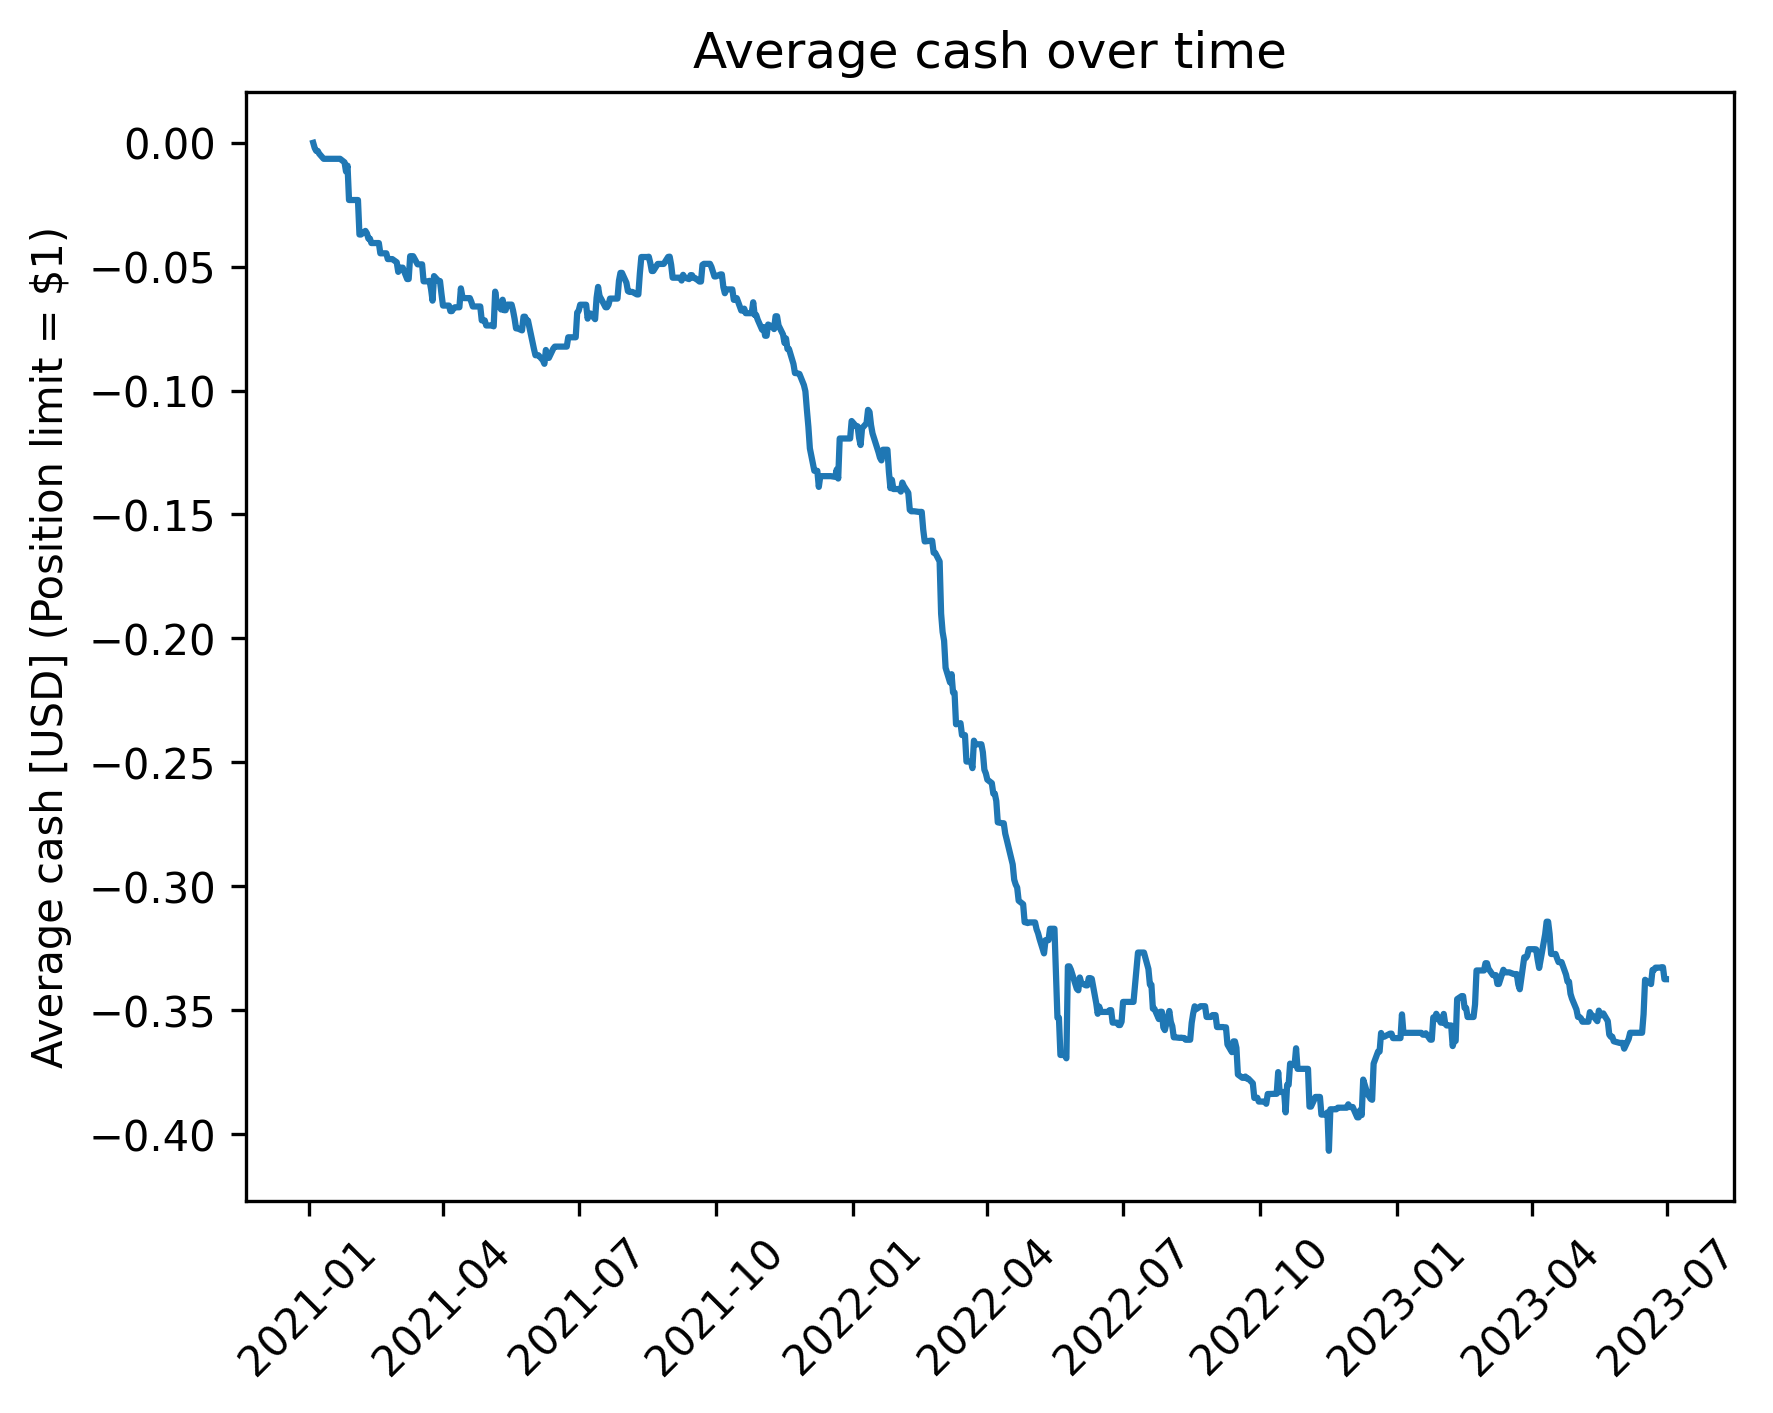
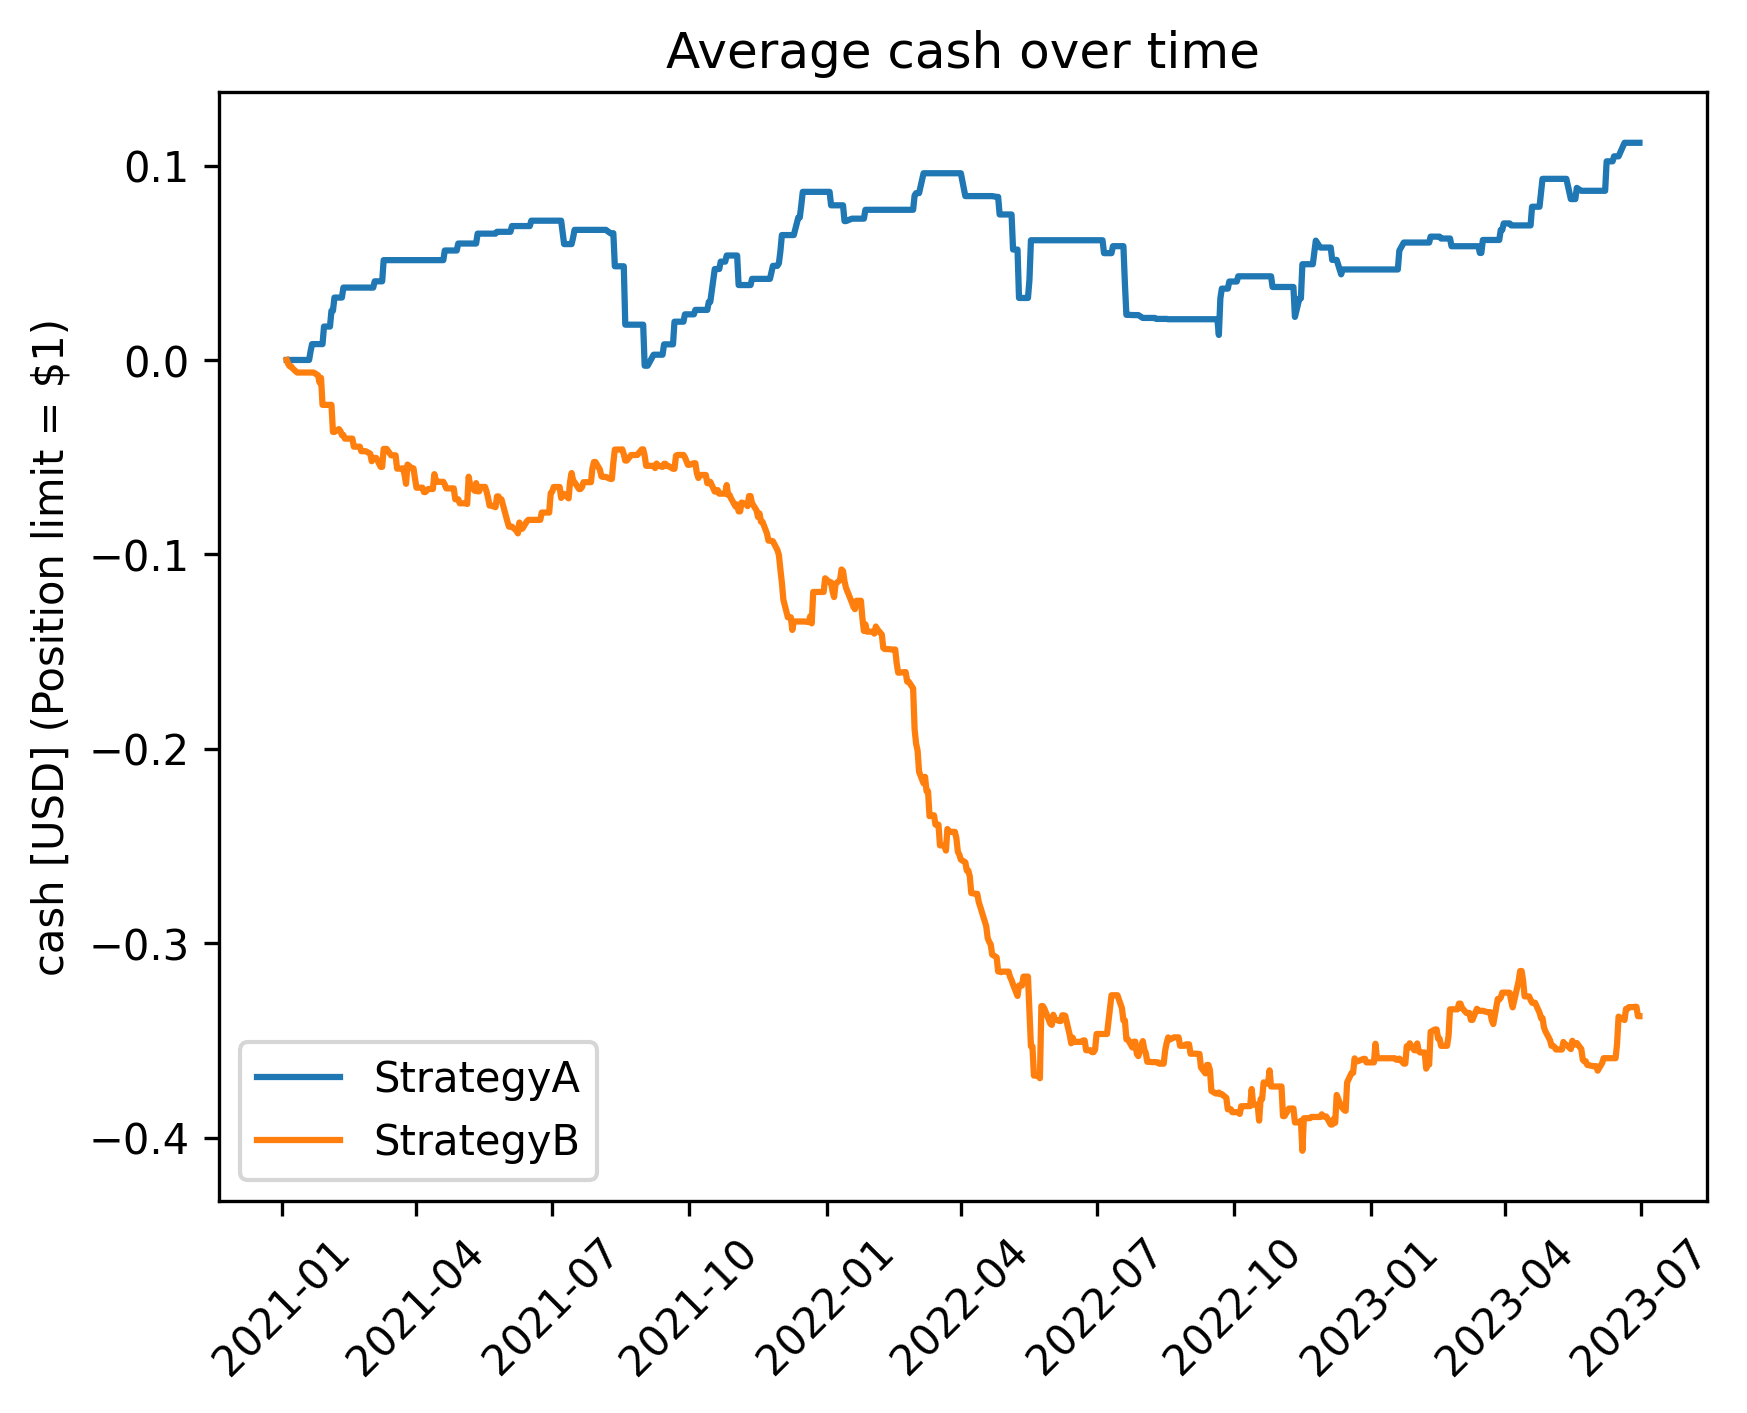
Added strategy comparison plotting tools

diff --git a/pairs_trading_oaf/plotting.py b/pairs_trading_oaf/plotting.py
@@ -5,77 +5,59 @@ Functions to plot trading data.
 import os
 import matplotlib.pyplot as plt
 
-def plot_portfolio_value_over_time(master_portfolio,
-                                   plot_cash=True):
+def plot_average_values_over_time(master_portfolio):
     """
-    Plots the profit and loss of the portfolio over time for each pair
+    Plots the average value of the portfolio over time for each pair
     in the master portfolio over the entire trading period.
     """
     current_dir = os.path.dirname(__file__)
     plots_dir = os.path.join(current_dir, '..', 'plots')
     os.makedirs(plots_dir, exist_ok=True)
-
-    for pair_portfolio in master_portfolio.pair_portfolios:
-
+    master_portfolio.calc_strategy_strings()
+    master_portfolio.calc_average_values_over_time_by_strategy()
+    for value_string in master_portfolio.average_values_over_time.keys():
         fig, ax = plt.subplots()
-        fig_size = fig.get_size_inches()
-        fig.set_size_inches(fig_size[0], fig_size[1])
-
-        # Extract stock label text bettwen : and )
-        stock_a_label = pair_portfolio.stock_pair_labels[0]
-        stock_a_label = stock_a_label[stock_a_label.find(':')+1:stock_a_label.find(')')]
-        stock_b_label = pair_portfolio.stock_pair_labels[1]
-        stock_b_label = stock_b_label[stock_b_label.find(':')+1:stock_b_label.find(')')]
-
-        ax.plot(pair_portfolio.dates_over_time, pair_portfolio.portfolio_value_over_time)
-        ax.set_ylabel('Portfolio value [USD] (Position limit = $' +
-                      f'{int(pair_portfolio.position_limit):d})')
+        for strategy_string in master_portfolio.average_values_over_time[value_string].keys():
+            ax.plot(master_portfolio.pair_portfolios[0].dates_over_time,
+                    master_portfolio.average_values_over_time[value_string][strategy_string],
+                    label=strategy_string)
+        ax.set_ylabel(value_string + ' [USD] (Position limit = $' +
+                f'{int(master_portfolio.position_limit):d})')
         plt.xticks(rotation=45)
-        ax.set_title('Portfolio value over time for\n' +
-                     f'Stock pair: {stock_a_label}, {stock_b_label}\n' +
-                     f'Strategy: {pair_portfolio.strategy.__class__.__name__}')
-        fname = os.path.join(plots_dir, 'portfolio_value_over_time_' +
-                             f'{pair_portfolio.strategy.__class__.__name__}' + '_' +
-                             stock_a_label + '_' + stock_b_label + '.png')
+        ax.set_title(f'Average {value_string} over time')
+        ax.legend()
+        fname = os.path.join(plots_dir, 'average_' + value_string + '_over_time.png')
         fig.savefig(fname, dpi=300, bbox_inches='tight')
         plt.close()
 
-        if plot_cash:
-
+def plot_values_over_time(master_portfolio):
+    """
+    Plots the values of the portfolio over time for each pair.
+    """
+    current_dir = os.path.dirname(__file__)
+    plots_dir = os.path.join(current_dir, '..', 'plots')
+    master_portfolio.calc_strategy_strings()
+    pairs_portfolio_index_dict = master_portfolio.calc_pairs_portfolio_index_dict()
+    value_strings = ["portfolio_value", "cash"]
+    stock_pair_labels = pairs_portfolio_index_dict[master_portfolio.strategy_strings[0]].keys()
+    for value_string in value_strings:
+        for stock_pair_label in stock_pair_labels:
             fig, ax = plt.subplots()
-            ax.plot(pair_portfolio.dates_over_time, pair_portfolio.cash_over_time)
-            ax.set_ylabel('Cash [USD] (Position limit = $' +
-                        f'{int(pair_portfolio.position_limit):d})')
+            for strategy_string in master_portfolio.strategy_strings:
+                pairs_portfolio_index = \
+                    pairs_portfolio_index_dict[strategy_string][stock_pair_label]
+                pair_portfolio = master_portfolio.pair_portfolios[pairs_portfolio_index]
+                ax.plot(pair_portfolio.dates_over_time,
+                        pair_portfolio.__dict__[value_string + "_over_time"],
+                        label=strategy_string)
+            ax.set_ylabel(value_string + ' [USD] (Position limit = $' +
+                          f'{int(master_portfolio.position_limit):d})')
             plt.xticks(rotation=45)
-            ax.set_title('Cash value over time for\n' +
-                        f'Stock pair: {stock_a_label}, {stock_b_label}\n' +
-                        f'Strategy: {pair_portfolio.strategy.__class__.__name__}')
-            fname = os.path.join(plots_dir, 'cash_value_over_time_' +
-                                f'{pair_portfolio.strategy.__class__.__name__}' + '_' +
-                                stock_a_label + '_' + stock_b_label + '.png')
+            ax.set_title(f'{value_string} over time for stock pair {stock_pair_label}')
+            ax.legend()
+            plots_subdir = os.path.join(plots_dir, value_string + '_over_time')
+            os.makedirs(plots_subdir, exist_ok=True)
+            fname = os.path.join(plots_subdir, value_string + '_over_time_' +
+                                 stock_pair_label + '.png')
             fig.savefig(fname, dpi=300, bbox_inches='tight')
             plt.close()
-
-    fig, ax = plt.subplots()
-
-    ax.plot(master_portfolio.pair_portfolios[0].dates_over_time,
-            master_portfolio.average_portfolio_value_over_time())
-    ax.set_ylabel('Average portfolio value [USD] (Position limit = $' +
-                  f'{int(master_portfolio.position_limit):d})')
-    plt.xticks(rotation=45)
-    ax.set_title('Average portfolio value over time')
-    fname = os.path.join(plots_dir, 'average_portfolio_value_over_time.png')
-    fig.savefig(fname, dpi=300, bbox_inches='tight')
-    plt.close()
-
-    if plot_cash:
-        fig, ax = plt.subplots()
-        ax.plot(master_portfolio.pair_portfolios[0].dates_over_time,
-                master_portfolio.average_cash_over_time())
-        ax.set_ylabel('Average cash [USD] (Position limit = $' +
-                    f'{int(master_portfolio.position_limit):d})')
-        plt.xticks(rotation=45)
-        ax.set_title('Average cash over time')
-        fname = os.path.join(plots_dir, 'average_cash_over_time.png')
-        fig.savefig(fname, dpi=300, bbox_inches='tight')
-        plt.close()

diff --git a/pairs_trading_oaf/portfolio.py b/pairs_trading_oaf/portfolio.py
@@ -22,6 +22,9 @@ class MasterPortfolio:
         self.training_data_str = training_data_str
         self.testing_data_str = testing_data_str
         self.pair_portfolios = []
+        self.average_pertofolio_value_over_time = None
+        self.strategy_strings = None
+        self.average_values_over_time = None
 
     def add_pair_portfolio(self, pair_portfolio):
         """
@@ -31,11 +34,74 @@ class MasterPortfolio:
             raise TypeError("pair_portfolio must be an instance of PairPortfolio")
         self.pair_portfolios.append(pair_portfolio)
 
+    def calc_strategy_strings(self):
+        """
+        Calculate a list of unique strategies used by the pair portfolios.
+        """
+        self.strategy_strings = []
+        for pair_portfolio in self.pair_portfolios:
+            if pair_portfolio.strategy.__class__.__name__ not in self.strategy_strings:
+                self.strategy_strings.append(pair_portfolio.strategy.__class__.__name__)
+
+    def calc_average_values_over_time_by_strategy(self):
+        """
+        Calculate the average value of the portfolio over time
+        across all the pair portfolios and across each strategy.
+
+        Inputs:
+        - Requires self.strategies to be calculated first.
+        - Assumes that all pair portfolios have the same number of data points for their
+          over_time lists.
+        """
+        value_strings = ["portfolio_value", "cash"]
+        num_pairs_portfolio_counter = {}
+        for strategy_string in self.strategy_strings:
+            num_pairs_portfolio_counter[strategy_string] = 0
+        self.average_values_over_time = {}
+        for value_string in value_strings:
+            self.average_values_over_time[value_string] = {}
+            for strategy_string in self.strategy_strings:
+                self.average_values_over_time[value_string][strategy_string] = \
+                    np.zeros(len(self.pair_portfolios[0].__dict__[value_string + "_over_time"]))
+        for pair_portfolio in self.pair_portfolios:
+            strategy_string = pair_portfolio.strategy.__class__.__name__
+            num_pairs_portfolio_counter[strategy_string] += 1
+            for value_string in value_strings:
+                self.average_values_over_time[value_string][strategy_string] += \
+                    np.array(pair_portfolio.__dict__[value_string + "_over_time"])
+        for value_string in value_strings:
+            for strategy_string in self.strategy_strings:
+                self.average_values_over_time[value_string][strategy_string] /= \
+                    num_pairs_portfolio_counter[strategy_string]
+
+    def calc_pairs_portfolio_index_dict(self):
+        """
+        Calculate a dictionary of indices for each pair portfolio.
+
+        Need to have set self.strategy_strings first.
+
+        The dictionary is of the form:
+        pairs_portfolio_index_dict[strategy_string][stock_pair] = index
+        """
+        pairs_portfolio_index_dict = {}
+        for strategy_string in self.strategy_strings:
+            pairs_portfolio_index_dict[strategy_string] = {}
+        for i, pair_portfolio in enumerate(self.pair_portfolios):
+            strategy_string = pair_portfolio.strategy.__class__.__name__
+            stock_a_label = pair_portfolio.stock_pair_labels[0]
+            stock_a_label = stock_a_label[stock_a_label.find(':')+1:stock_a_label.find(')')]
+            stock_b_label = pair_portfolio.stock_pair_labels[1]
+            stock_b_label = stock_b_label[stock_b_label.find(':')+1:stock_b_label.find(')')]
+            stock_pair_label = stock_a_label + '_' + stock_b_label
+            pairs_portfolio_index_dict[strategy_string][stock_pair_label] = i
+        return pairs_portfolio_index_dict
+
     def average_portfolio_value_over_time(self):
         """
         Calculate the average value of the portfolio over time
         across all the pair portfolios.
         """
+
         total_portfolio_value_over_time = \
             np.zeros(len(self.pair_portfolios[0].portfolio_value_over_time))
         for pair_portfolio in self.pair_portfolios:

diff --git a/pairs_trading_oaf/main.py b/pairs_trading_oaf/main.py
@@ -34,21 +34,23 @@ stock_pair_labels_list = [
     ("Caterpillar Inc. (NYSE:CAT)", "Deere & Company (NYSE:DE)"),
     ("Wells Fargo & Company (NYSE:WFC)", "Citigroup Inc. (NYSE:C)"),
 ]
-StrategyClass = strategies.StrategyB
 
 master_portfolio = portfolio.MasterPortfolio(POSITION_LIMIT,
                                              TRAINING_DATA_FNAME,
                                              TESTING_DATA_FNAME)
-for stock_pair_labels in stock_pair_labels_list:
-    pair_portfolio = \
-        portfolio.PairPortfolio(stock_pair_labels,
-                                StrategyClass,
-                                master_portfolio)
-    master_portfolio.add_pair_portfolio(pair_portfolio)
+for StrategyClass in [strategies.StrategyA, strategies.StrategyB]:
+    for stock_pair_labels in stock_pair_labels_list:
+        pair_portfolio = \
+            portfolio.PairPortfolio(stock_pair_labels,
+                                    StrategyClass,
+                                    master_portfolio)
+        master_portfolio.add_pair_portfolio(pair_portfolio)
 
 trading.simulate_trading(master_portfolio)
 
-plotting.plot_portfolio_value_over_time(master_portfolio)
+# plotting.plot_portfolio_value_over_time(master_portfolio)
+plotting.plot_average_values_over_time(master_portfolio)
+plotting.plot_values_over_time(master_portfolio)
 
 toc = time.perf_counter()
 print(f"Time taken: {toc - tic:0.4f} seconds")
